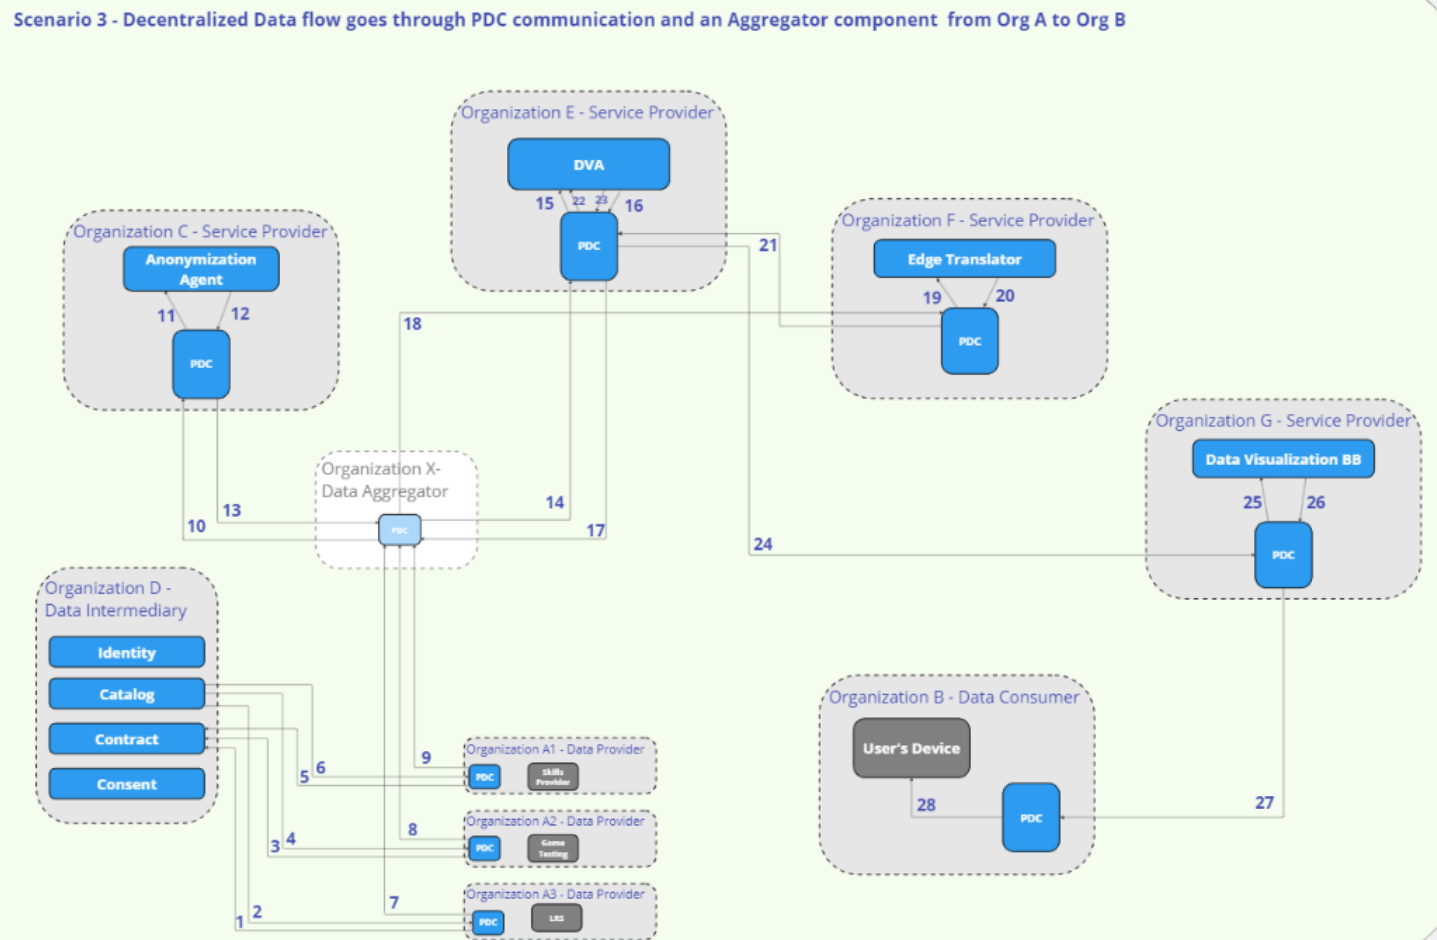
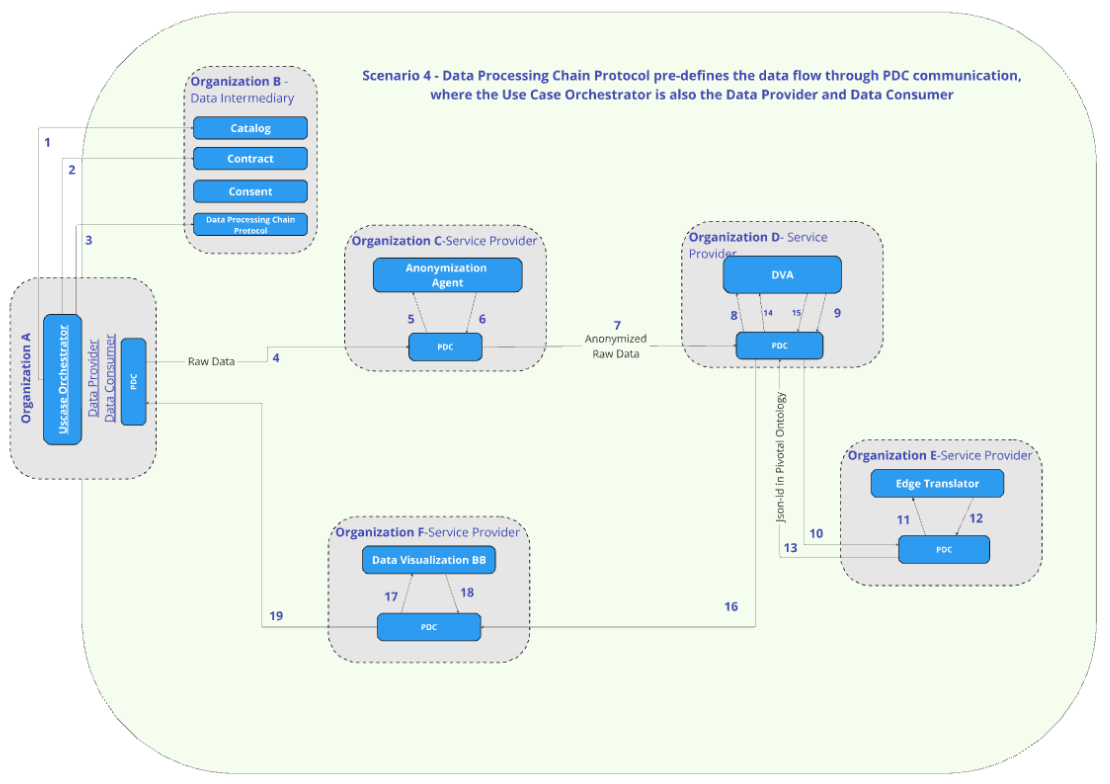
fix: changes after review

diff --git a/docs/design-document.md b/docs/design-document.md
@@ -963,20 +963,23 @@ Translator can be used in case of aggregation of different data-sources, in orde
 
 ![alt_text](images/image-ds-usage.png "image_tooltip")
 
-1. The raw data from a data source is pushed to the PDC in any format
-2. PDC requests the contract validation to transfer the data
-3. PDC requests the consent validation to transfer  the data
-4. Data intermediary sends terms of contract, consent, identity, ... of the Org. A and Individual B
-5. The data is pushed to the Service Provider C for DVA
-6. Attestation of Veracity (AoV) is requested
-7. Proof of Veracity (PoV) is provided
-8. Raw data is transferred to Edge Translator BB's PDC
-9. Raw data (e.g. Json) is forwarded to the Translator BB to be processed
-10. Output data is generated (Json-ld) and forwarded to the PDC of the Translator BB
-11. Translated data (Json-ld in Pivot Ontology) is forwarded back to DVA's PDC for double verification
-12. Data is pushed to DVA requesting AoV
-13. PoV is provided
-14. DVA's PDC Transfers data to the Visualisation BB's PDS to process it
-15. Visualization BB's PDC pushes the data into the Visualization BB
-16. Already processed data returns to the PDC ready to be distributed
-17. Service provider's PDC forwards final data to the Individual B's device to be displayed
+In the given scenario Use Case Orchestrator has also the role of the Data Provider and Data Consumer.
+1. As Use Case Orchestrator the Org A selects the required services from the Catalog
+2. As Use Case Orchestrator the Org A signs the Contract
+3. The Data Processing Chain Protocol is defined together with the Org A
+4. After signing the contract the Org A will have a PDC and by acting as Data Provider will send the raw data to the first service provider's PDC (Org C PDC)
+5. Org C's PDC communicated the raw data with the service provider
+6. Org. C's PDC receives the anonymized data back
+7. As defined by Data Processing Chain Protocol first service provider (Org.C), after processing the data, checks the next recipient and pushes the processed data to the next service provider's PDC (Org D Data Vacity Assurance)
+8. Org D's PDC requests for the Attestation of Veracity (AoV)
+9. Proof of Veracity (PoV) is provided
+10. As defined by Data Processing Chain Protocol the data flow is double checked between the Service Provider and DPCP and pushed to the next service provider (Org E Edge Translator)
+11. Org E's PDC forwards the raw, anonymized data to Edge Translator BB
+12. Output data is generated (Json-ld) and forwarded to the PDC of the EdgeTranslator BB
+13. Translated data (Json-ld in Pivotal Ontology) is forwarded back to DVA's PDC for double verification
+14. Data is pushed to DVA requesting AoV
+15. PoV is provided
+16. DVA's PDC Transfers data to the Visualisation BB's PDS to process it
+17. Visualization BB's PDC pushes the data into the Visualization BB
+18. Already processed data returns to the PDC ready to be distributed
+19. Service provider's PDC (Org F) forwards final data to the Data Consumer's device, ready to be displayed
